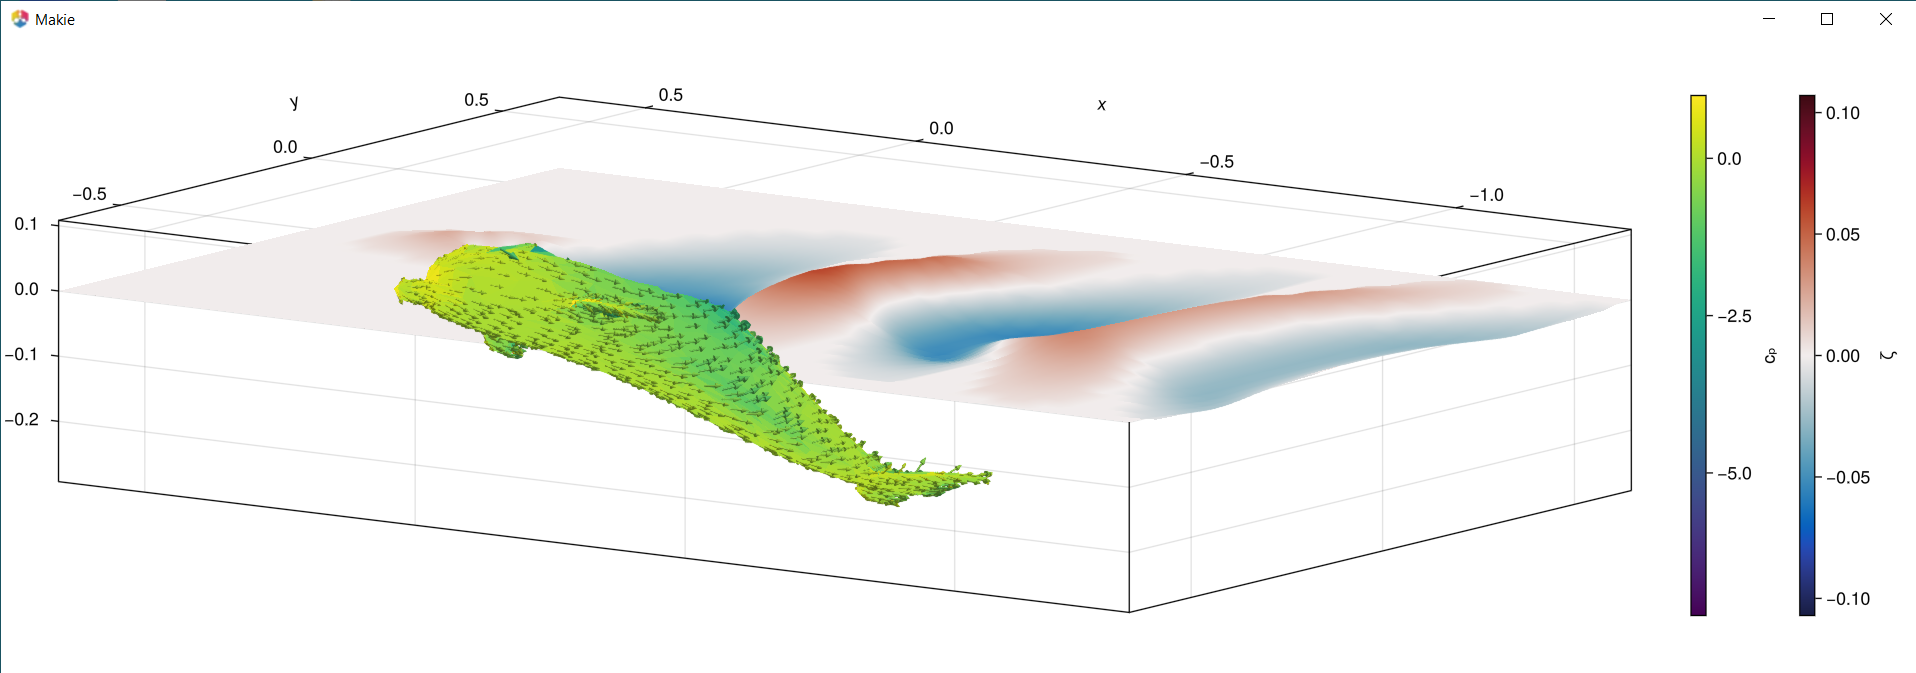
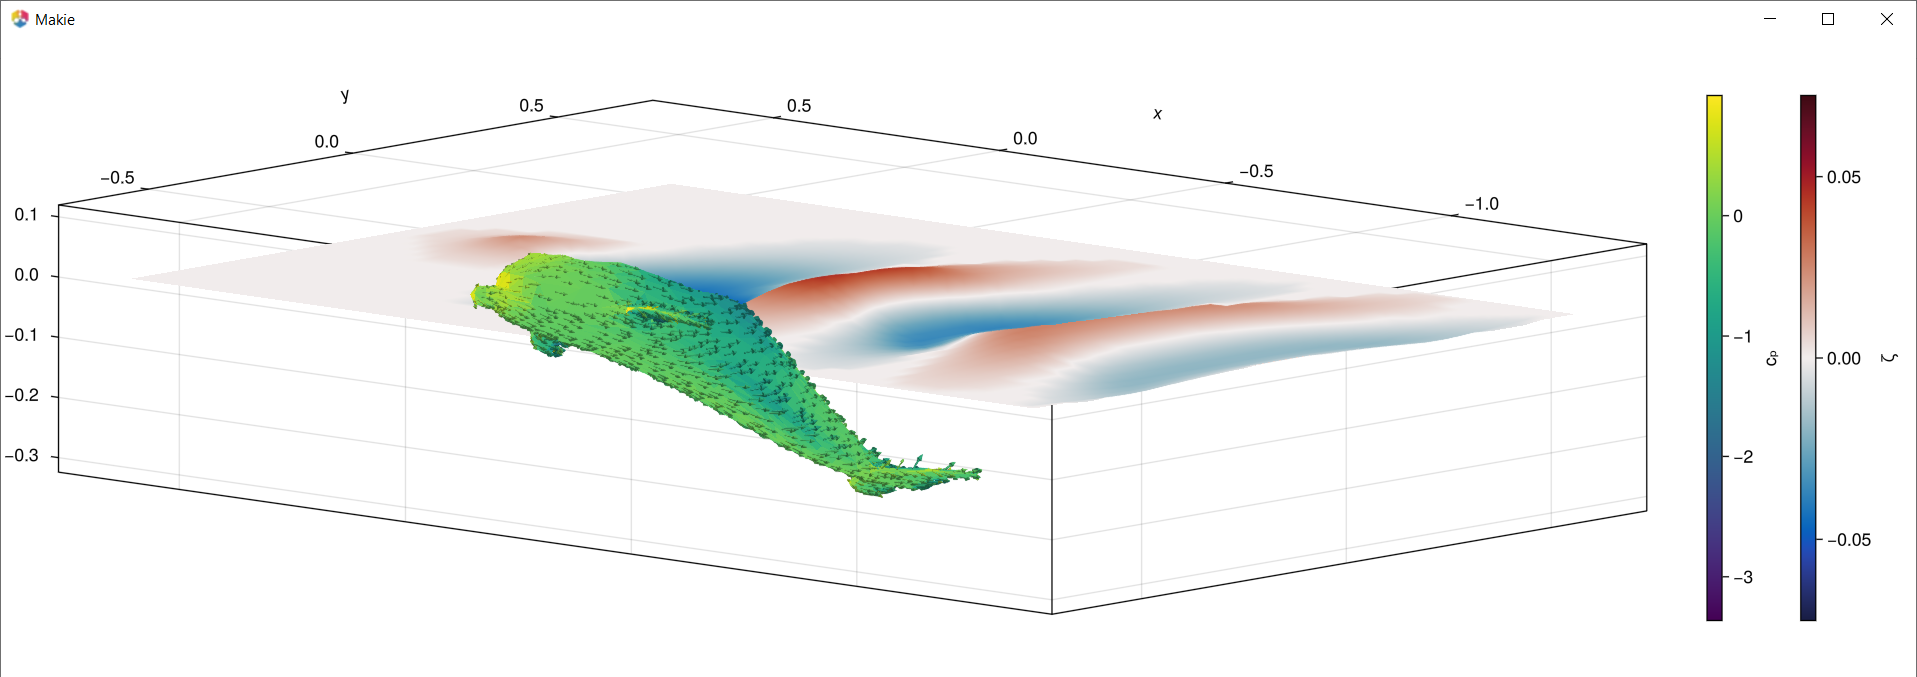
Update/fix README examples

diff --git a/README.md b/README.md
@@ -34,7 +34,7 @@ The panels themselves can either be defined by reading in a triangle-based Mesh 
 ```julia
 using NeumannKelvin
 h = 0.1 # spacing
-freesurf = measure.((u,v)->SA[u,v,0],2:-h:-4,(2:-h:-2)',h,h)
+freesurf = measure.((u,v)->SA[u,-v,0],2:-h:-4,(-2:h:2)',h,h)
 S(θ₁,θ₂) = SA[0.5cos(θ₁),-0.1sin(θ₂)*sin(θ₁),0.1cos(θ₂)*sin(θ₁)-0.15]
 body = panelize(S,0,π,0,2π,hᵤ=h)
 ```
@@ -43,9 +43,9 @@ The `measure` function measures a parametric surface into a single panel given a
 Next the panel system can be defined and solved. For an unbounded potential flow solution with a small number of panels like this one, we can use
 ```julia
 julia> sys = BodyPanelSystem(body) |> directsolve!
-┌ Warning: This routine ignores free-surface panels and is memory intensive. See help?>directsolve!.
-└ @ NeumannKelvin ~/Workspace/NeumannKelvin.jl/src/solvers.jl:72
-  0.001468 seconds (53 allocations: 259.781 KiB)
+Warning: This routine ignores free surface panels and is memory intensive. See help?>directsolve!.
+└ @ NeumannKelvin c:\Users\gweymouth\Documents\GitHub\NeumannKelvin.jl\src\solvers.jl:72
+  0.000332 seconds (132 allocations: 168.391 KiB)
 BodyPanelSystem
   body: Table with 9 columns and 96 rows
      area & volume: 0.5019560344511921, 0.02079102608493166
@@ -54,7 +54,7 @@ BodyPanelSystem
   mirrors: ([1, 1, 1],)
   strength extrema: (-0.07478205822184282, 0.07478205822184263)
 ```
-You can see that some basic properties of the panelized body, panel type, flow parameters, and solution are shown. You can also see the solution method is very fast, 1.5ms on an old laptop for this small 96 panel system. 
+You can see that some basic properties of the panelized body, panel type, flow parameters, and solution are shown. You can also see the solution method is very fast, 330μs on my laptop for this small 96 panel system.
 
 For larger systems, it's very helpful to accelerate the solution by wrapping the panels in a `PanelTree` and using the matrix-free iterative solver:
 ```julia
@@ -70,7 +70,7 @@ SimpleStats
  residuals: []
  Aresiduals: []
  κ₂(A): []
- timer: 5.21s
+ timer: 792.14ms
  status: solution good enough given atol and rtol
 
 BodyPanelSystem
@@ -79,9 +79,11 @@ BodyPanelSystem
      panel type: NeumannKelvin.QuadKernel
   background flow U: [-1, 0, 0]
   mirrors: ([1, 1, 1],)
-  strength extrema: (-0.0870901881812633, 0.08709074525159466)
+  strength extrema: (-0.0870901881812638, 0.08709074525159503)
 ```
-This 20k panel body is fairly quick to solve using this approach. See the documentation for `PanelTree` and `gmressolve!` for details. Since this body is symmetric in y, we could further increase the speed by using a half of the body and applying the method of images on the symmetry axis.
+This 20k panel system still takes less than a second to solve using this approach. See the documentation for `PanelTree` and `gmressolve!` for details. 
+
+Since this body is symmetric in y, we could further increase the speed by using a half of the body and applying the method of images on the symmetry axis.
 ```julia
 julia> halfbody = panelize(S,0,π,0,π,hᵤ=1/200,N_max=Inf); # half the θ₂ range
 
@@ -95,7 +97,7 @@ SimpleStats
  residuals: []
  Aresiduals: []
  κ₂(A): []
- timer: 3.66s
+ timer: 479.57ms
  status: solution good enough given atol and rtol
 
 BodyPanelSystem
@@ -104,9 +106,9 @@ BodyPanelSystem
      panel type: NeumannKelvin.QuadKernel
   background flow U: [-1, 0, 0]
   mirrors: ([1, -1, 1], [1, 1, 1])
-  strength extrema: (-0.08747539911219701, 0.08749685245478749)
+  strength extrema: (-0.08747539911219676, 0.08749685245478724)
 ```
-Where we see half the number of panels and a reduced solve time, but also the new `mirror=[1,-1,1]` enforcing symmetry and therefore the same solution extrema.
+Where we see half the number of panels and approximately half the solve time, but also the new `mirror=[1,-1,1]` enforcing symmetry and therefore nearly identical solution extrema.
 
 With the system solved, we can now measure any properties of interest. For example, the extreme values of the pressure coefficient and the added mass.
 ```julia
@@ -119,33 +121,33 @@ julia> addedmass(sys)
  7.054090093897268e-5
  3.247604894181291e-5
 ```
-The max cₚ=1 because of the stagnation point, but the added mass is small because the flow direction was aligned with the long axis of the spheroid. We can compute the other added mass coefficient by rotating the body or (easier) the background flow:
-```julia
-julia> BodyPanelSystem(body,U=SA[0,1,0]) |> directsolve! |> addedmass
-┌ Warning: This routine ignores free-surface panels and is memory intensive. See help?>directsolve!.
-└ @ NeumannKelvin ~/Workspace/NeumannKelvin.jl/src/solvers.jl:72
-  0.005645 seconds (53 allocations: 163.781 KiB)
-3-element SVector{3, Float64} with indices SOneTo(3):
-  1.3036900728907295e-18
- -0.8487489964044264
- -7.463625667299426e-17
-```
+The max cₚ=1 because of the stagnation point, but the added mass is small because the flow direction was aligned with the long axis of the spheroid. We can compute the other added mass coefficient by rotating the body or (easier) the background flow U:
 
 >**Note:** You may use any length-units you want to define the body, but you must then use the same length-scale within `U`. Body volumes and areas will also be given in those units (squared & cubed). Measurements such as `cₚ`, `addedmass`, `steadyforce` and the free-surface elevation `ζ` all return dimenionless values (scaled by `|U|`, body area, volume, etc). See the documentation for each function.
+
+```julia
+julia> directsolve!(BodyPanelSystem(body,U=SA[0,-1,0]),verbose=false) |> addedmass
+3-element SVector{3, Float64} with indices SOneTo(3):
+ 1.3036900728907295e-18
+ 0.8487489964044264
+ 7.117332991687825e-17
+```
+The added mass force is larger when the flow is broadside to the body, as expected.
 
 ## Free surface panel systems
 
 For our first free-surface simulation, we can define a `FSPanelSystem` with panels on both `body` and `freesurf`. We also **must** define the Froude length ℓ≡U²/g to apply the FSBC.
 ```julia
+# Make the free-surface grid and body panels using y-symmetry and resolving ℓ
 ℓ = 1/4; h = 0.3ℓ # Froude-length and spacing
-freesurf = measure.((u,v)->SA[u,v,0],2:-h:-4,(-h/2:-h:-2.5)',h,h)
-body = panelize(S,0,π,0,π,hᵤ=h)
+freesurf = measure.((u,v)->SA[u,-v,0],2:-h:-4,(h/2:h:2)',h,h)
+halfbody = panelize(S,0,π,0,π,hᵤ=h)
 ```
 ```julia
-julia> FSsys = FSPanelSystem(body,freesurf;
+julia> FSsys = FSPanelSystem(halfbody,freesurf;
                   ℓ,sym_axes=2,θ²=16) |> gmressolve!
 SimpleStats
- niter: 108
+ niter: 100
  solved: true
  inconsistent: false
  indefinite: false
@@ -153,20 +155,20 @@ SimpleStats
  residuals: []
  Aresiduals: []
  κ₂(A): []
- timer: 2.29s
+ timer: 1.53s
  status: solution good enough given atol and rtol
 
 FSPanelSystem
-  freesurf: PanelTree(2905 panels, 13 levels, θ²: 16)
-     size: (83, 35)
+  freesurf: PanelTree(2187 panels, 13 levels, θ²: 16)
+     size: (81, 27)
      panel type: NeumannKelvin.QuadKernel
   Froude length ℓ: 0.25
   body: PanelTree(72 panels, 8 levels, θ²: 16)
-     area & volume: 0.25097206316403453, 0.010422384595950109
+     area & volume: 0.25097206316403453, 0.010422384595950107
      panel type: NeumannKelvin.QuadKernel
   background flow U: [-1, 0, 0]
   mirrors: ([1, -1, 1], [1, 1, 1])
-  strength extrema: (-0.09644307446593116, 0.07721147067548449)
+  strength extrema: (-0.09670047456210028, 0.07706274641204487)
 ```
 Both the body and freesurf panels are wrapped in a `PanelTree` by default for `FSPanelSystems` (because the free-surface meshes are unavoidably large) but you can disable this using `wrap=identity` or adjust the Barnes-Hut cutoff using the `θ²` keyword argument.
 
@@ -176,37 +178,42 @@ Despite the large number of panels and increased iterations, the solve is still 
 ```julia
 julia> steadyforce(FSsys)
 3-element SVector{3, Float64} with indices SOneTo(3):
-  0.019685476370198615
-  0.0957268703375495
- -0.009320776968417262
+  0.020252107305114217
+  0.09698749907738831
+ -0.00966715094756456
 ```
 Note that we've used y-symmetry, and integrating over the half-body artificially produced a non-zero side force. However, the dynamic drag and vertical forces coefficients have been appropriately scaled by the (half) body surface area.
 
 We can also solve flows around surface piercing bodies. As a fun illustration of a Mesh-defined body, we can use a dolphin geometry!
 ```julia
+# Load the mesh, xform it, and filter out panels intersecting z=0
 using GeometryBasics,FileIO
 function affine(mesh, A, b)  # rotate, scale, and shift the mesh
     position = [Point3f(A * p + b) for p in mesh.position]
     GeometryBasics.Mesh(position, mesh.faces)
 end
-dolphin = affine(load("examples//LowPolyDolphin.stl"), SA[0 -1 0;1 0 0;0 0 1]/65,SA[0.043,0,-0.08])
-ℓ=0.09; h = 0.04; # define the Froude length and grid size
-freesurf = measure.((u,v)->SA[u,v,0],2/3:-h:-4/3,(2/3:-h:-2/3)',h,h,T=Float32); # Float32 to match the Mesh
-sys = FSPanelSystem(panelize(dolphin),freesurf;ℓ)
+dolphin = let 
+    mesh = load("examples//LowPolyDolphin.stl")
+    mesh = affine(mesh, SA[0 -1 0;1 0 0;0 0 1]/65,SA[0.043,0,-0.09])
+    filter(p->abs(p.x[3])>0.01, panelize(mesh))
+end
+
+# The rest of the system matches the example above
+h = 0.04; freesurf = measure.((u,v)->SA[u,-v,0],2/3:-h:-4/3,(-2/3:h:2/3)',h,h,T=Float32); # Float32 to match the Mesh
+sys = FSPanelSystem(dolphin,freesurf;ℓ=0.09) |> gmressolve!
 ```
 ```julia
-julia> gmressolve!(sys,verbose=false) # skip the solver message
 FSPanelSystem
-  freesurf: PanelTree(1734 panels, 12 levels, θ²: 16)
+  freesurf: PanelTree(1734 panels, 12 levels, θ²: 9)
      size: (51, 34)
      panel type: NeumannKelvin.QuadKernel
   Froude length ℓ: 0.09
-  body: PanelTree(1456 panels, 12 levels, θ²: 16)
-     area & volume: 0.4646912, 0.013457678
+  body: PanelTree(1373 panels, 12 levels, θ²: 9)
+     area & volume: 0.4362399, 0.013043594
      panel type: NeumannKelvinGeometryBasicsExt.TriKernel
   background flow U: [-1, 0, 0]
   mirrors: ([1, 1, 1],)
-  strength extrema: (-0.21162972f0, 0.18662103f0)
+  strength extrema: (-0.24399182f0, 0.19675535f0)
 ```
 Note that the body panel type is now `TriKernel` because it is defined by the STL Mesh instead of a parametric surface.
 
@@ -223,12 +230,16 @@ The `viz` function defines a few default visualizations for body and free-surfac
 
 We can satify the linear FSBC by construction if we switch from source panels to Kelvin panels. This has the huge advantage of perfectly resolving the linear wavefield with no free-surface panels and (after lots of optimized integral methods) much faster solve times!
 
-Here's the same submerged spheroid example
+Here's the same submerged spheroid example solved using Kelvin panels.
 ```julia
-julia> NKsys = NKPanelSystem(body;ℓ,sym_axes=2) |> directsolve!
-┌ Warning: This routine ignores free-surface panels and is memory intensive. See help?>directsolve!.
+ℓ = 1/4; h = 0.3ℓ # Froude-length and spacing
+halfbody = panelize(S,0,π,0,π,hᵤ=h)
+```
+```julia
+julia> NKsys = NKPanelSystem(halfbody;ℓ,sym_axes=2) |> directsolve!
+┌ Warning: This routine ignores free surface panels and is memory intensive. See help?>directsolve!.
 └ @ NeumannKelvin c:\Users\gweymouth\Documents\GitHub\NeumannKelvin.jl\src\solvers.jl:72
-  0.04295 seconds (132 allocations: 107.078 KiB)
+  0.003006 seconds (132 allocations: 107.078 KiB)
 NKPanelSystem
   Neumann-Kelvin args: (ℓ = 0.25, filter = true, contour = false)
   body: Table with 9 columns and 72 rows
@@ -236,7 +247,7 @@ NKPanelSystem
      panel type: NeumannKelvin.QuadKernel
   background flow U: [-1, 0, 0]
   mirrors: ([1, -1, 1], [1, 1, 1])
-  strength extrema: (-0.09838568886715646, 0.0772067740097456)
+  strength extrema: (-0.09838582154859293, 0.07720677207281905)
 
 julia> steadyforce(NKsys)
 3-element SVector{3, Float64} with indices SOneTo(3):
@@ -244,9 +255,27 @@ julia> steadyforce(NKsys)
   0.0961015016623305
  -0.009347630235111046
 ```
-You can see the results are much faster than `FSPanelSystem` - in fact this is only around 30x slower than a double body flow computed using `BodyPanelSystem`. It is encouraging that the `FSPanelSystem` solution and forces match to within a few percent despite that method's finite free-surface quadrature, wave damping, and potential numerical reflections.
+It is encouraging that the `FSPanelSystem` solution and forces match to within a few percent of the `NKPanelSystem` solution despite that method's finite free-surface quadrature, numerical wave damping and (potentially) reflections.
 
-However, a `NKPanelSystem` has limitations. The inhomogeneous Kelvin kernel means you can't use `PanelTrees` and the perfect wave resolution can produce waves too small for the body panels near the free-surface to resolve, leading to convergence issues. See the docs for `NKPanelSystem`, `kelvin`, and the cited references for details.
+The `NKPanelSystem` solve is much faster than `FSPanelSystem` - in fact it is only around 10x slower than a double body flow computed using `BodyPanelSystem` which can't predict drag and get's the wrong vertical force as well!
+```julia
+julia> BodyPanelSystem(halfbody;sym_axes=(2,3)) |> directsolve! |> steadyforce!
+┌ Warning: This routine ignores free surface panels and is memory intensive. See help?>directsolve!.
+└ @ NeumannKelvin c:\Users\gweymouth\Documents\GitHub\NeumannKelvin.jl\src\solvers.jl:72
+  0.000361 seconds (132 allocations: 104.891 KiB)
+3-element SVector{3, Float64} with indices SOneTo(3):
+ -2.2957434790946685e-12
+  0.0741385277429429
+ -0.006076003552147477
+```
+
+Despite many advantages, the `NKPanelSystem` does have it's own limitations:
+
+- The inhomogeneous Kelvin Green's function means you can't use `PanelTrees` to accelerate Kelvin panels. 
+- The perfect wave resolution can produce waves too small for the body panels near the free-surface to resolve, leading to convergence issues unless these are `filter`ed.
+- Kelvin panels can not be extended to inforce the Nonlinear FSBC, unlike `FSPanelSystem`s which could potentially do so in the future.
+
+See the docs for `NKPanelSystem`, `kelvin`, and the cited references for details.
 
 As a final application, let's simulate the classic Wigley hull with `NKPanels`
 ```julia
